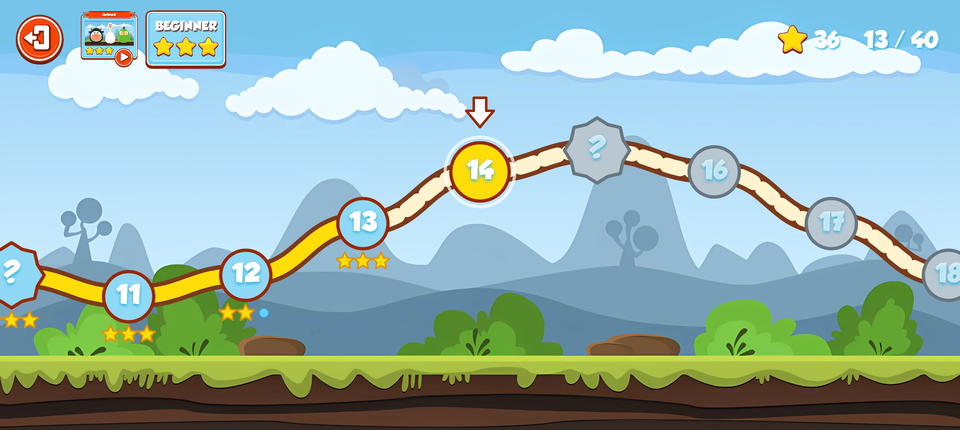
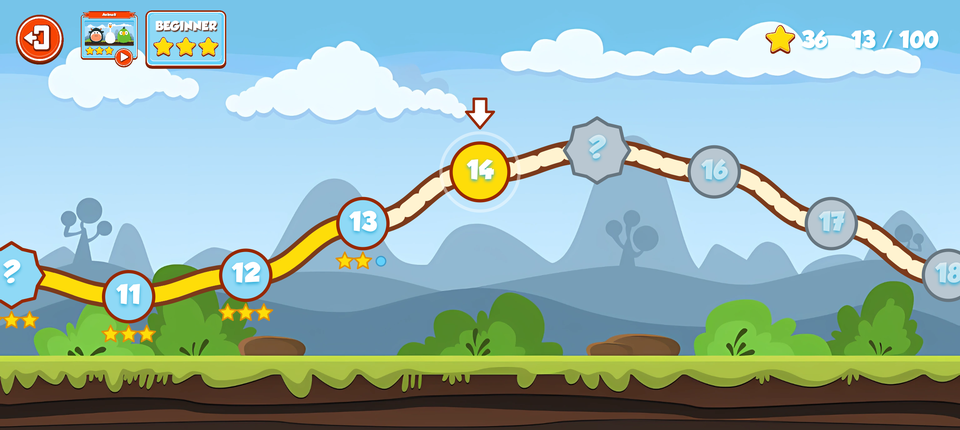
README: drop the code layout section, map screenshot with a road of 100
Claude-Session: https://claude.ai/code/session_01LstcXWc1YxpqeB5SU5SB8k

diff --git a/README.md b/README.md
@@ -93,20 +93,6 @@ The Play listing declares the game for children and certifies COPPA and GDPR com
 must keep it free of data collection, network access, permissions, ads, purchases and third-party
 SDKs; `CLAUDE.md` spells this out and the `checkChildSafety` task fails the build when it can tell.
 
-## Code layout
-
-- `game/` pure Kotlin rules: `Difficulty`, `Board`, `GameEngine` (flip state machine), `GameResult` (stars and score)
-- `game/progression/` roads and rounds (`RoundSpec`, `Road`) and the player's `Progress`
-- `game/minigame/` the rules of the seven mini-games, one class each, behind `MiniGameRules`
-- `data/` `ProgressStore` (the versioned progress file) and `GamePreferences` (sound, language, last road; keys compatible with 2019)
-- `ui/GameViewModel` the screen flow, the round in progress, its clock, and the timing of every effect
-- `ui/road/` the map: `RoadGeometry` places rounds, `RoadNode` states them, `RoadMapView` draws them
-- `ui/minigame/` the mini-game screens and the party scene they share
-- `ui/image/` `ArtCache` (traced vectors rendered once), `LabeledDrawable` (words on art)
-- `ui/character/` the vector card characters and their animation
-- `audio/SoundPlayer` sound effects and the mini-game notes (`tools/generate-sounds.py`)
-- Design notes for every feature are in `docs/design`.
-
 ## License
 
 - Code: [Apache License 2.0](./LICENSE)
